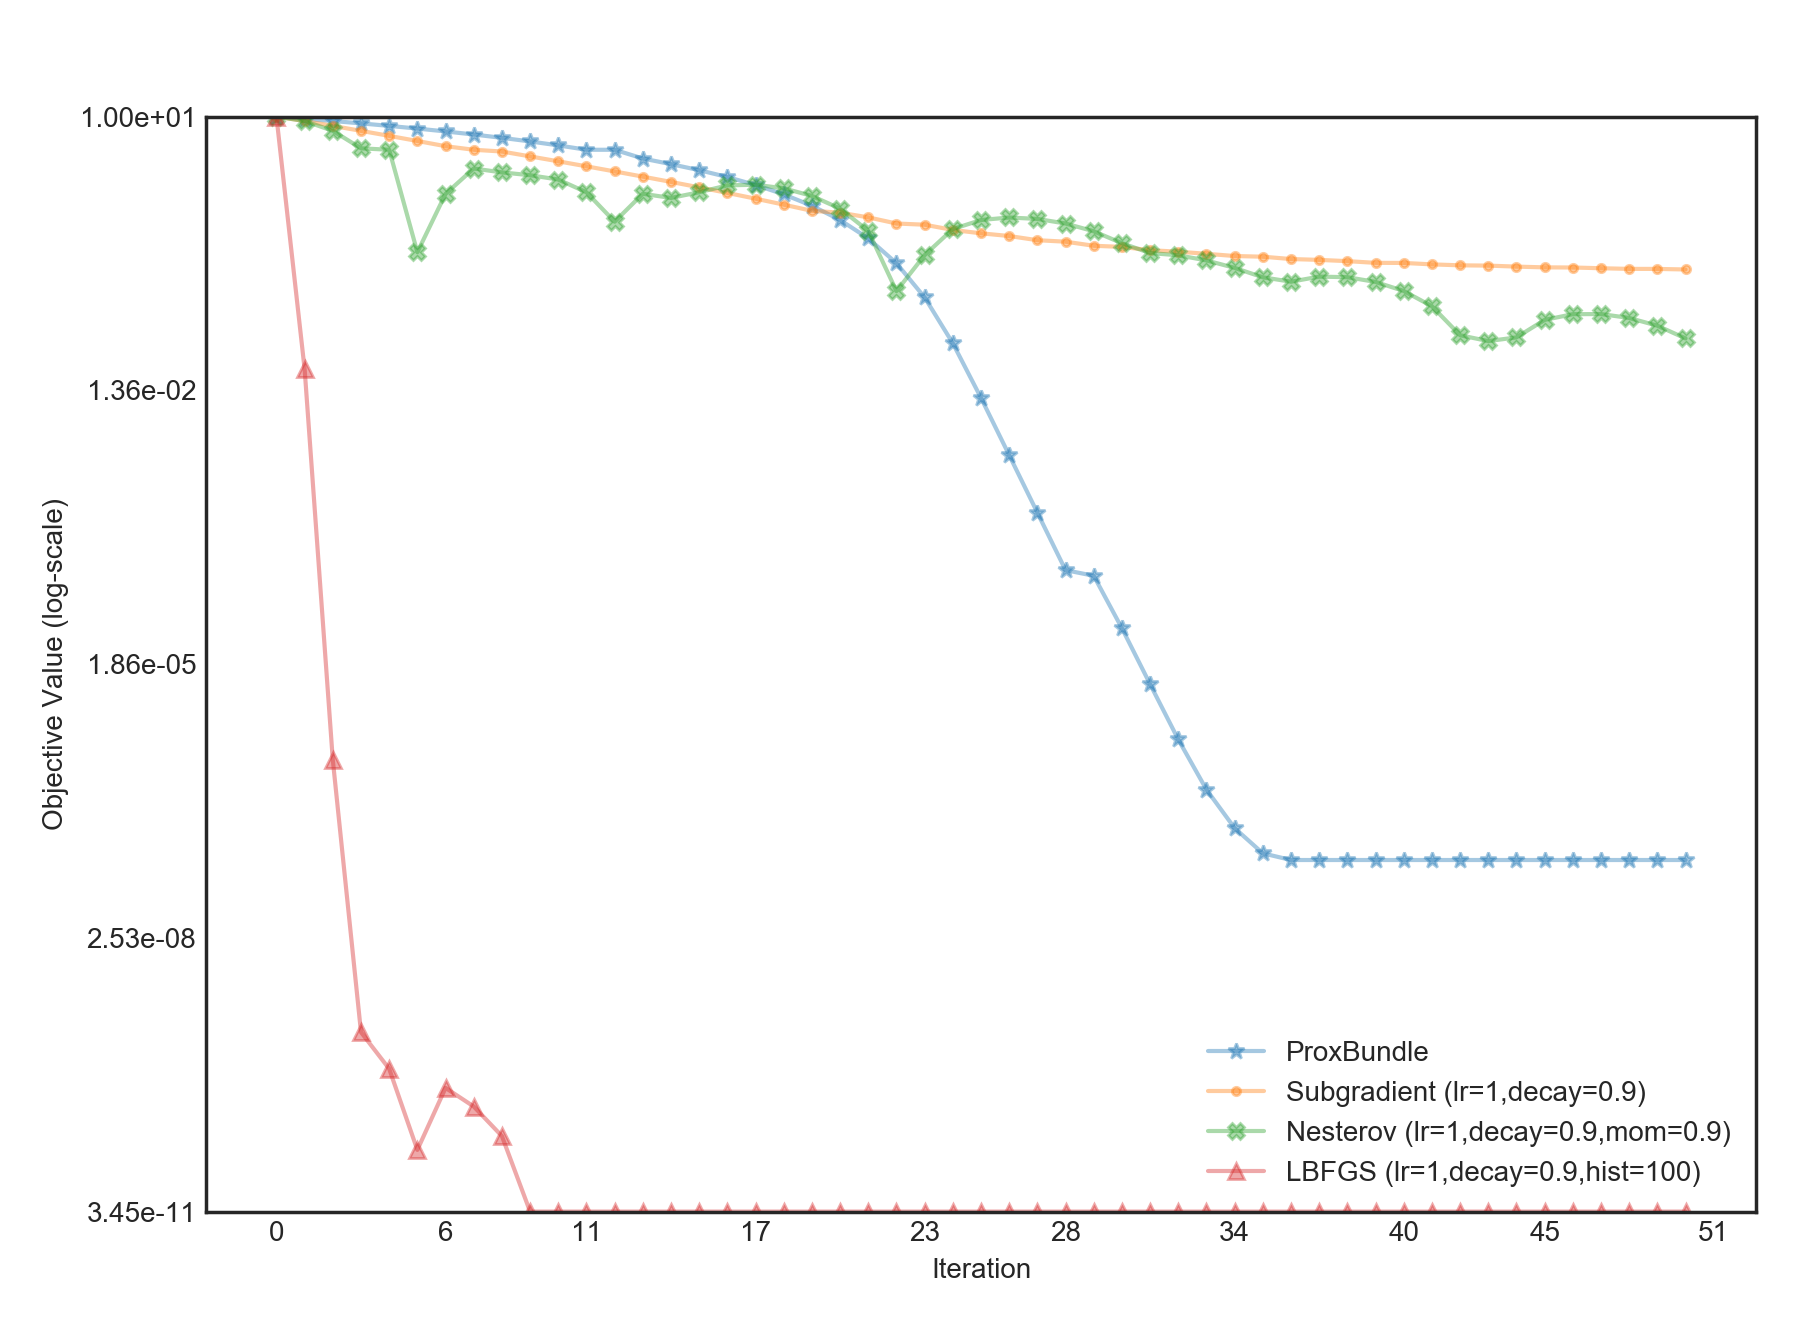
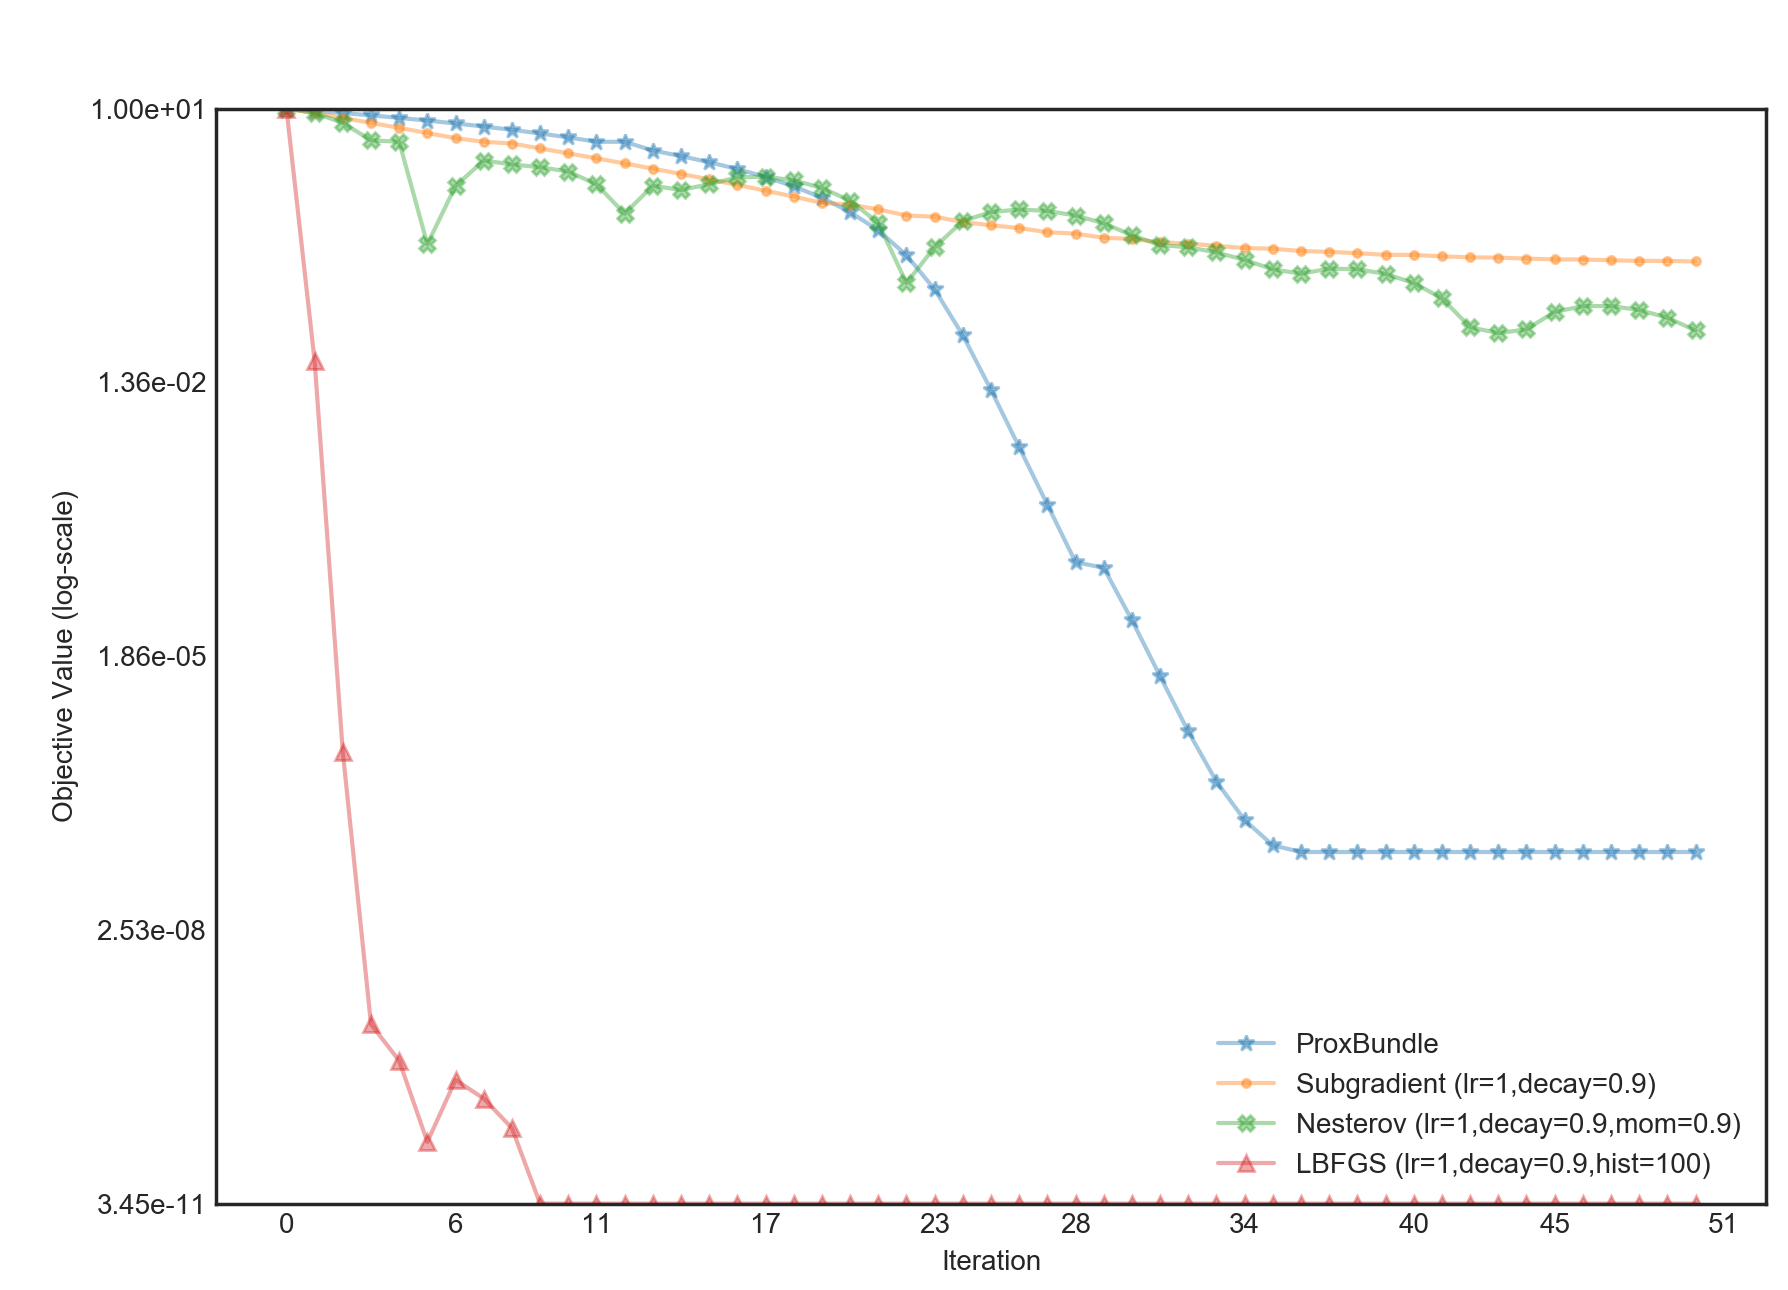
try html

diff --git a/README.md b/README.md
@@ -14,9 +14,9 @@ Defining new optimization algorithms for one's own use is easy: just modify the 
 
 Quick examples are in the  `simple_examples`  folder. In particular, the following two plots were generated using only 14 lines of code (see `simple_examples/plot_multiple.py`) for the objective function $f(x,y) = \max(|x|,y^2)$:
 
-<img src="https://github.com/xiaoyanh/autoNSO/blob/master/aux/path_plot_ex.png" width="4in"/>
+<img src="./aux/value_plot_ex.png" width="4in">
 
-![](./aux/path_plot_ex.png) 
+![](./aux/path_plot_ex.png) ![](./aux/value_plot_ex.png) 
 
 Maintainer:   X.Y. Han, Cornell University ORIE\
 Contact:      xiaoyanhn@gmail.com
